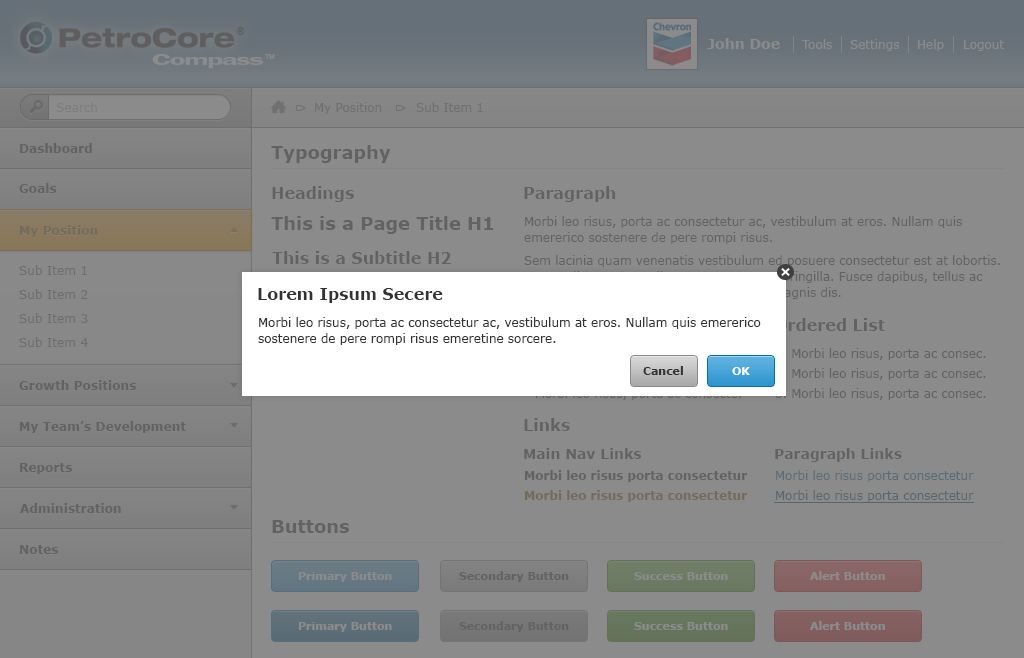
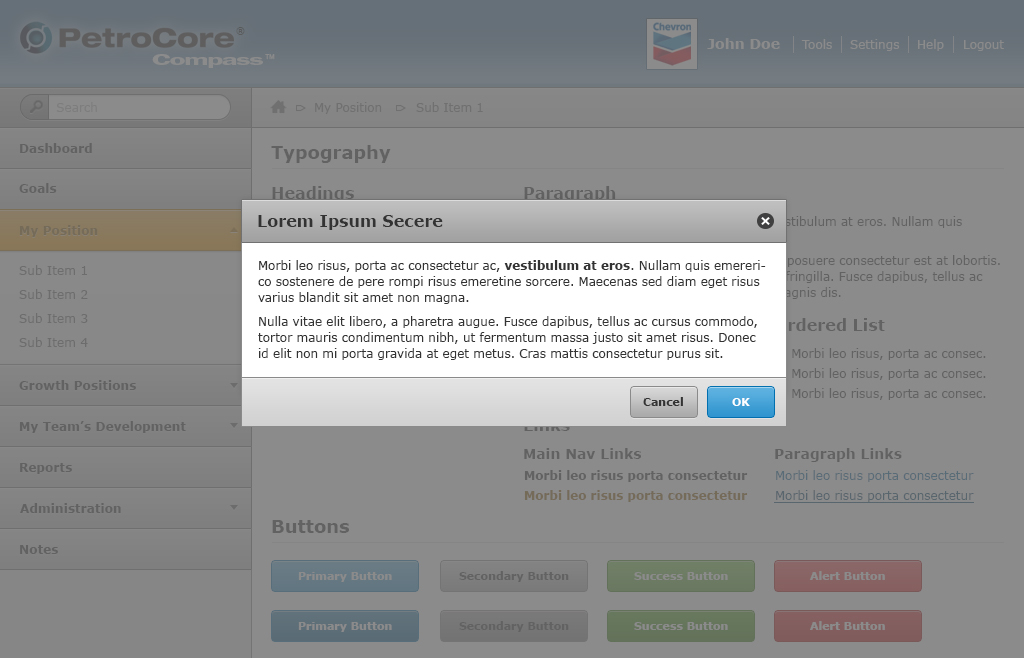
Upload Design Examples screenshots

Changed region(s): [[0.2188, 0.304, 0.7812, 0.6687]]

diff --git a/design-examples.html b/design-examples.html
@@ -83,146 +83,28 @@
 
   </div>
     <div class="nine columns">
-       <h2>Getting Started</h2>
+       <h2>Panel Functionality</h2>
           <!-- <h5 class="subheader">Whether you are using Scss or CSS, we've made it easy to start a project so that you can help take over the world one responsive site at a time.</h5> -->
-          <p>This online style guide is intended for anyone producing page designs for PetroSkills online products. It explains the design rules used to establish the look and feel of the site and will help deliver high quality, consistent online communication.</p>
-          <p>Please refer to this guide when creating new sections and pages for the website.</p>
+          <p>Aenean eu leo quam. Pellentesque ornare sem lacinia quam venenatis vestibulum. Vivamus sagittis lacus vel augue laoreet rutrum faucibus dolor auctor. Maecenas faucibus mollis interdum.</p>
 
+          <img src="images/panel-functionality.jpg" alt="Panel Functionality" style="border: 1px solid #717171;"><br><br>
           <hr>
 
-          <h3>Design Language</h3>
-          <p>The site has been designed to support and extend the core brand values into an online graphic and interactive visual language. We have developed a simple, uncomplicated design language that incorporates clear signposting for content, navigation and task-based zoning through typography, composition and colour. The language delivers a strong, unique look and supports best-in-class usability and functionality.</p>
-
+          <h3>Resizable Panels</h3>
+           <p>Aenean eu leo quam. Pellentesque ornare sem lacinia quam venenatis vestibulum. Vivamus sagittis lacus vel augue laoreet rutrum faucibus dolor auctor. Maecenas faucibus mollis interdum.</p>
+          <img src="images/functionality-resize.jpg" alt="Panel Functionality Resize" style="border: 1px solid #717171;"><br><br>
           <hr>
 
-          <h3>What's being covered</h3>
-
-          <div class="row">
-            <div class="four columns">
-              <dl>
-                <dt><h5><a href="#">The Grid</a></h5></dt>
-                <dd>Having a durable and flexible grid at the core of your work can make development much simpler. Use our built-in grid classes to speed up layout code development.</dd>
-              </dl>
-            </div>
-            <div class="four columns">
-              <dl>
-                <dt><h5><a href="#">Layout</a></h5></dt>
-                <dd>This section demonstrates the general layout principles used on the site. It also includes examples of how to carry the same design language across different sites.</dd>
-              </dl>
-            </div>
-            <div class="four columns">
-              <dl>
-                <dt><h5><a href="#">Navigation</a></h5></dt>
-                <dd>We show you how the navigation was designed and how to apply the same designs onto your sites.</dd>
-              </dl>
-            </div>
-          </div>
-
-          <div class="row">
-            <div class="four columns">
-              <dl>
-                <dt><h5><a href="#">Typography</a></h5></dt>
-                <dd>The core typefaces, sizes, leading, and colors used throughout the site. We also show the headings, paragraphs, lists, and other inline type elements.</dd>
-              </dl>
-            </div>
-            <div class="four columns">
-              <dl>
-                <dt><h5><a href="#">Iconography</a></h5></dt>
-                <dd>We show the icons that are used throughout the interface. How to use them and where.</dd>
-              </dl>
-            </div>
-            <div class="four columns">
-              <dl>
-                <dt><h5><a href="#">Forms</a></h5></dt>
-                <dd>You can create simple or complicated forms quickly and easily— validation states, custom select, radio buttons and more.</dd>
-              </dl>
-            </div>
-          </div>
-
-          <div class="row">
-            <div class="four columns">
-              <dl>
-                <dt><h5><a href="#">UI Elements</a></h5></dt>
-                <dd>We showcase common UI elements that are used throughout the site such as buttons, labels, alerts, and a lot more.</dd>
-              </dl>
-            </div>
-            <div class="four columns">
-              <dl>
-                <dt><h5><a href="#">Widgets</a></h5></dt>
-                <dd>We discussed the various types of widgets being used throughout the site. Great for displaying various content types.</dd>
-              </dl>
-            </div>
-            <div class="four columns">
-              <dl>
-                <dt><h5><a href="#">Examples</a></h5></dt>
-                <dd>Finally, we show you examples of how the whole design comes together. </dd>
-              </dl>
-            </div>
-          </div>
-
-          <!-- <hr>
-
-          <h3>How is a project structured?</h3>
-          <h5 class="subheader">We follow common patterns for directory structure that are logical and easily maintained. Below is an explanation of each file you'll get when you create a project using our gem or download via our <a href="/download.php">customizer</a>.</h5>
-
-          <div class="row">
-            <div class="four columns">
-              <dl>
-                <dt><h5><i class="foundicon-folder"></i> stylesheets</h5></dt>
-                <dd>Includes <code>foundation.css</code> and <code>foundation.min.css</code> so you can choose which to use. We've also included <code>app.css</code> that you can use for custom styles that will sit on top of the Foundation core as overrides.</dd>
-              </dl>
-            </div>
-            <div class="four columns">
-              <dl>
-                <dt><h5><i class="foundicon-folder"></i> javascripts</h5></dt>
-                <dd>All of our plugins and the necessary Javascript to make Foundation work properly. The most important file here is <code>app.js</code>, which is used to initialize the various plugins that you might want to use. <strong>All JS is initiated by default</strong>.</dd>
-              </dl>
-            </div>
-            <div class="four columns">
-              <dl>
-                <dt><h5><i class="foundicon-folder"></i> images</h5></dt>
-                <dd>This directory includes all the images needed for Foundation, which actually aren't many. The only images included by default are used for Orbit. If you don't use Orbit, you may get rid of them.</dd>
-              </dl>
-            </div>
-          </div>
-
-          <div class="row">
-            <div class="four columns">
-              <dl>
-                <dt><h5><i class="foundicon-page"></i> index.html</h5></dt>
-                <dd>A sample structure for page content, giving you something to use as a basic structural template for the rest of the pages in your project.</dd>
-              </dl>
-            </div>
-            <div class="four columns">
-              <dl>
-                <dt><h5><i class="foundicon-page"></i> humans.txt</h5></dt>
-                <dd>A way to tell the world about the people that worked on the sites you build, giving them kudos they deserve.</dd>
-              </dl>
-            </div>
-            <div class="four columns">
-              <dl>
-                <dt><h5><i class="foundicon-page"></i> robots.txt</h5></dt>
-                <dd>Give instructions to web robots so search engines know what to do when they crawl your site for content.</dd>
-              </dl>
-            </div>
-          </div>
-          <br>
-          <div class="row">
-            <div class="twelve columns">
-              <div class="panel">
-                <h6 class="subheader"><strong>Using the Gem?</strong> You'll see a couple extra pieces in your project upon creation. These are:</h6>
-                <dl>
-                  <dt><i class="foundicon-folder"></i> sass/</dt>
-                  <dd>Your main style folder is named <strong>sass/</strong> and contains <code>app.scss</code>, which imports Foundation (or the parts you want). Your custom styles go below the <code>@imports</code>. You can see the compiled CSS in your stylesheets directory after you manually <span class="has-tip top" title="$ compass compile <filename>">compile</span> or <span class="has-tip top" title="$ compass watch <directory>">watch</span>. This directory also includes <code>_settings.scss</code>, which is used to control variables that help easily style Foundation.</dd>
-                  <dt><i class="foundicon-settings"></i> config.rb</dt>
-                  <dd>This file is used by <a href="http://compass.style.org">Compass</a> to compile your project. Here you can control the output style of your CSS, the structure of your directories and other useful settings.</dd>
-                </dl>
-              </div>
-            </div>
-          </div> -->
-
+          <h3>Draggable Panels</h3>
+           <p>Aenean eu leo quam. Pellentesque ornare sem lacinia quam venenatis vestibulum. Vivamus sagittis lacus vel augue laoreet rutrum faucibus dolor auctor. Maecenas faucibus mollis interdum.</p>
+          <img src="images/functionality-drag.jpg" alt="Panel Functionality Drag" style="border: 1px solid #717171;"><br><br>
           <hr>
 
+          <h3>Chart Tooltips</h3>
+           <p>Aenean eu leo quam. Pellentesque ornare sem lacinia quam venenatis vestibulum. Vivamus sagittis lacus vel augue laoreet rutrum faucibus dolor auctor. Maecenas faucibus mollis interdum.</p>
+          <img src="images/functionality-hover.jpg" alt="Panel Functionality Hover" style="border: 1px solid #717171;"><br><br>
+
+          </div>
     </div>
   </div>
   <!-- CONTENT AREA -->

diff --git a/popups.html b/popups.html
@@ -86,8 +86,6 @@
       <h2>Pop-ups</h2>
       <p>Aenean lacinia bibendum nulla sed consectetur. Cum sociis natoque penatibus et magnis dis parturient montes, nascetur ridiculus mus. Curabitur blandit tempus porttitor.</p>
       <img src="images/popups.jpg" alt="Popups"><br><br>
-      <hr>
-
     </div>
   </div>
   <!-- CONTENT AREA -->
